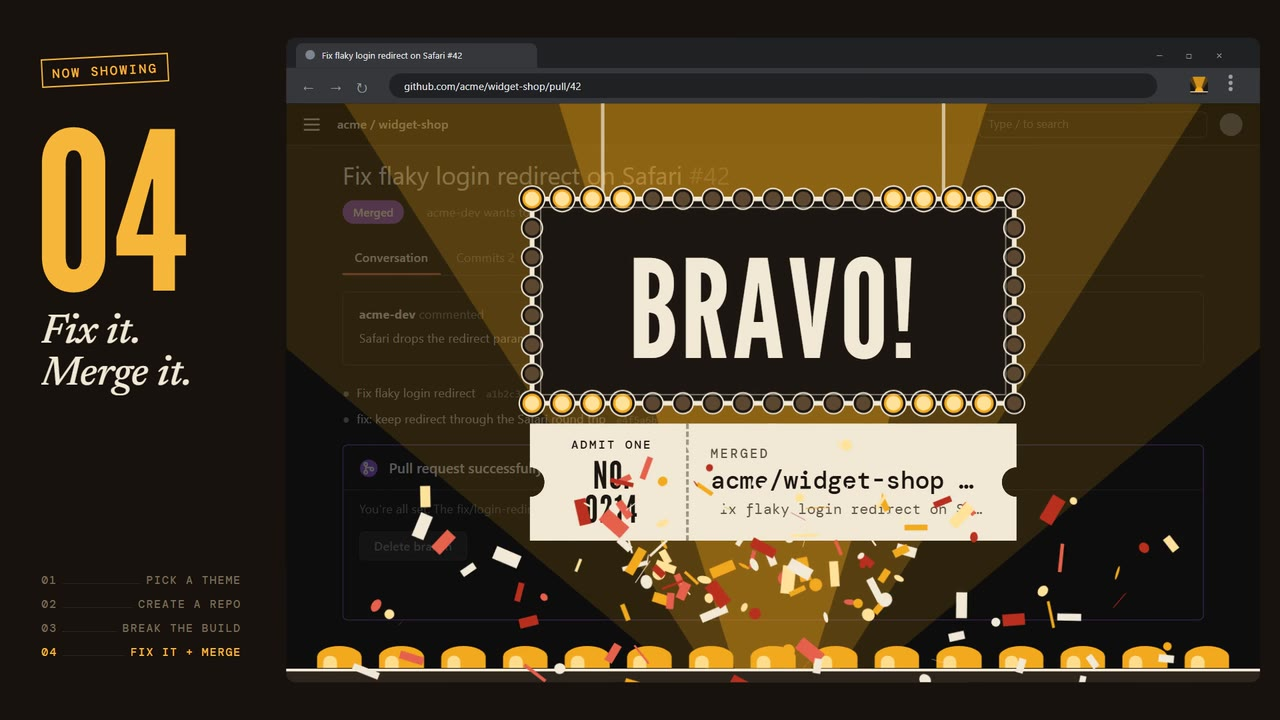
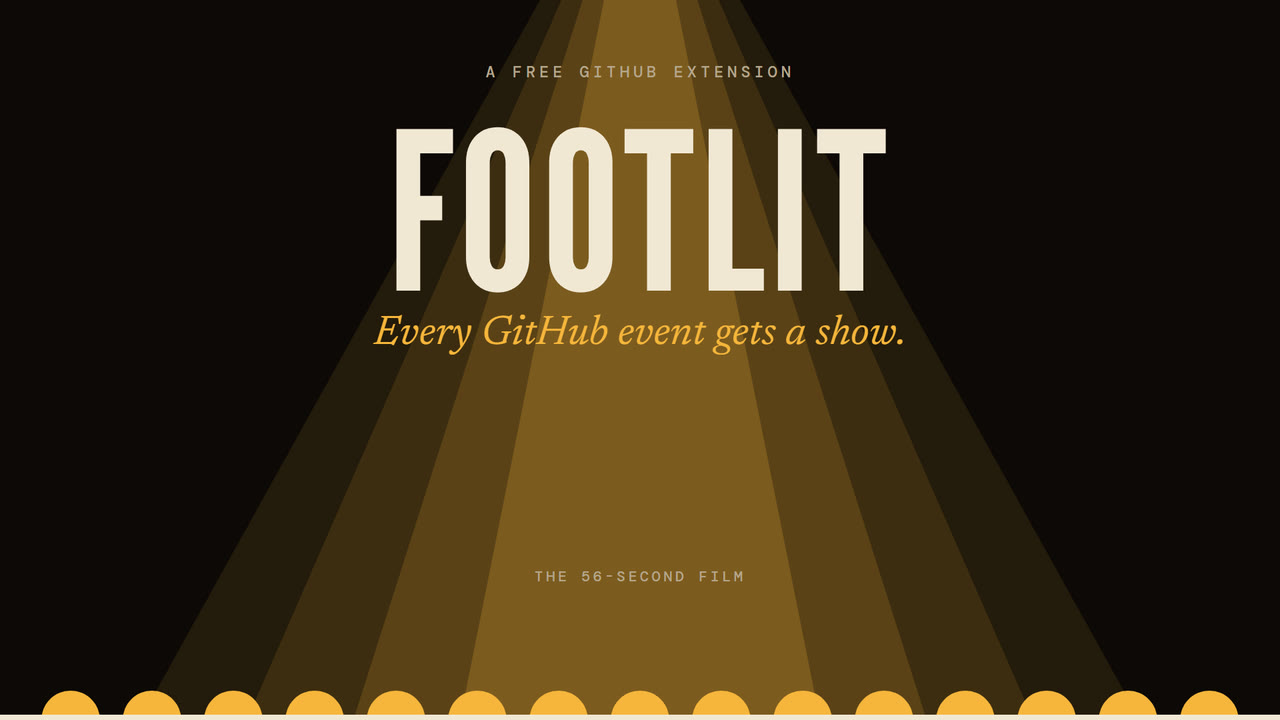
live how-it-works, themes up, restored install, new poster

diff --git a/site/src/components/Install.tsx b/site/src/components/Install.tsx
@@ -2,28 +2,78 @@ import { DOWNLOADS, VERSION } from '@/lib/data';
 import { site } from '@/site.config';
 import { TicketButton } from './TicketButton';
 import { CopyText } from './CopyText';
+import { Down } from './Icons';
 import s from './Install.module.css';
 
 export function Install() {
   const chrome = DOWNLOADS.chrome;
   return (
-    <section id="install" className={s.section} aria-labelledby="h-install">
-      <div className={`wrap ${s.grid}`}>
-        <div>
-          <h2 id="h-install" className="display">Give your next<br />merge a moment.</h2>
-          <p>Install Footlit, reload GitHub, and carry on building.<br />We’ll take care of the curtain call.</p>
-        </div>
-        <div className={s.actions}>
-          <TicketButton href={site.chromeStoreUrl || chrome?.file || '#manual-install'} download={!site.chromeStoreUrl && !!chrome} title={site.chromeStoreUrl ? 'Add to Chrome' : 'Download for Chrome'} sub="Free. No account. No sound." tone="tungsten" />
-          {site.firefoxStoreUrl && <a className={s.firefox} href={site.firefoxStoreUrl}>Add to Firefox</a>}
-          <p className={s.version}>v{VERSION} · Chrome 111+ and Firefox 140+</p>
-          {site.chromeStoreUrl && <p className={s.permission}>Chrome asks for access to github.com so Footlit can notice status changes and draw its animations.</p>}
-          <details id="manual-install" className={s.details} open={!site.chromeStoreUrl}>
-            <summary>Manual installation for Chrome</summary>
-            <div className={s.instructions}>
-              {chrome && <><h3>Chrome from a zip</h3><p><a href={chrome.file} download>Download Chrome zip ({chrome.kb} KB)</a></p><ol><li>Unzip to a folder you will keep.</li><li>Open <CopyText text="chrome://extensions" />, enable Developer mode, and choose Load unpacked.</li><li>Select the folder containing <code>manifest.json</code>, then reload GitHub.</li></ol><p>For updates, replace the folder’s files with the latest zip and reload the extension.</p></>}
-            </div>
-          </details>
+    <section id="install" className={`paper ${s.section} band`} aria-labelledby="h-install">
+      <div className="wrap">
+        <header className={s.head}>
+          <p className="eyebrow">Take a seat</p>
+          <h2 id="h-install" className={`display ${s.h2}`}>Install it in a minute.</h2>
+          <p className="lede">Free, no account, no sign-up. Version {VERSION}.</p>
+        </header>
+
+        <dl className={s.glance}>
+          <div><dt>Price</dt><dd>Free</dd></div>
+          <div><dt>Works with</dt><dd>Chrome 111+ and Chromium browsers; Firefox 140+</dd></div>
+          <div><dt>Version</dt><dd>{VERSION}</dd></div>
+          <div><dt>Download</dt><dd>{chrome ? `${chrome.kb} KB` : 'n/a'}</dd></div>
+          <div><dt>Data collected</dt><dd>None</dd></div>
+          <div><dt>Permissions</dt><dd>github.com access and storage</dd></div>
+        </dl>
+
+        <div className={s.grid}>
+          <div className={s.tickets}>
+            {site.chromeStoreUrl ? (
+              <TicketButton href={site.chromeStoreUrl} title="Add to Chrome" sub="Chrome Web Store · one click · updates itself" stub="Store" tone="tungsten" />
+            ) : (
+              <TicketButton href="#" title="Chrome Web Store" sub="Coming soon" stub="Soon" stubSmall="Not yet" tone="ink" disabled />
+            )}
+            {site.firefoxStoreUrl ? (
+              <TicketButton href={site.firefoxStoreUrl} title="Add to Firefox" sub="Firefox Add-ons · one click · updates itself" stub="Store" tone="tungsten" />
+            ) : (
+              <TicketButton href="#" title="Firefox Add-ons" sub="Coming soon" stub="Soon" stubSmall="Not yet" tone="ink" disabled />
+            )}
+            {chrome ? (
+              <TicketButton href={chrome.file} download title="Manual install" sub={`Direct download · .zip · ${chrome.kb} KB`} stub="Free" tone="ink" icon={<Down />} />
+            ) : null}
+          </div>
+
+          <div className={s.steps}>
+            <h3 className="display">Chrome, Firefox and friends</h3>
+            <ol>
+              <li>
+                <b>Press “Add to Chrome” or “Add to Firefox”</b> and confirm. The browser will say Footlit can read and change your data on github.com. That is standard wording for any extension that runs on a site: Footlit only runs on github.com, looks at page labels on your machine to know when something happened, and sends nothing anywhere.
+              </li>
+              <li>
+                <b>Reload any GitHub tab</b> you already had open, click the Footlit icon, and press Rehearse on any event.
+              </li>
+            </ol>
+            <p>Brave and other Chromium browsers can install straight from the Chrome Web Store too. Store versions update themselves.</p>
+
+            <h3 className="display">Manual install (zip)</h3>
+            <p>Only needed if you cannot use a store.</p>
+            <ol>
+              <li>
+                <b>Download and unzip</b> the file somewhere it can stay. Chrome loads the extension from that folder, so do not delete it afterwards.
+              </li>
+              <li>
+                <b>Open the extensions page</b> by pasting <CopyText text="chrome://extensions" /> into the address bar, then switch on <b>Developer mode</b>.
+              </li>
+              <li>
+                <b>Click “Load unpacked”</b> and choose the unzipped folder. The folder you pick must be the one that contains <code>manifest.json</code>.
+              </li>
+              <li>
+                <b>Reload any GitHub tab</b> you already had open, click the Footlit icon, and press Rehearse on any event.
+              </li>
+            </ol>
+            <p className={s.update}>
+              <b>Installed from a zip? Updates are not automatic.</b> Browsers only update extensions that came from a store. When a new version is released, download the latest zip here, replace the files in your folder, then press the reload button on Footlit at <CopyText text="chrome://extensions" /> and reload your GitHub tabs.
+            </p>
+          </div>
         </div>
       </div>
     </section>

diff --git a/site/src/components/Story.tsx b/site/src/components/Story.tsx
@@ -1,9 +1,73 @@
+'use client';
+
+import { useEffect, useRef, useState } from 'react';
+import { useFootlit } from '@/lib/footlit';
 import s from './Story.module.css';
 
-/** "What is this?" for people who scroll instead of watching: three beats, one picture each. */
+/**
+ * "What is this?" for people who scroll instead of watching: three beats, and the three pictures play the beats
+ * in a loop (while the section is on screen): click Merge, Footlit notices, the real engine plays the show.
+ */
 export function Story() {
+  const { ready } = useFootlit();
+  const root = useRef<HTMLElement>(null);
+  const stage = useRef<HTMLDivElement>(null);
+  const [phase, setPhase] = useState(0); // 0 idle, 1 cursor arrives, 2 clicked, 3 noticed
+  const [playing, setPlaying] = useState(false);
+  const [reduced, setReduced] = useState(false);
+
+  useEffect(() => {
+    setReduced(window.matchMedia('(prefers-reduced-motion: reduce)').matches);
+  }, []);
+
+  useEffect(() => {
+    const el = root.current;
+    if (!ready || !el) return;
+    if (reduced) {
+      setPhase(3);
+      return;
+    }
+    let alive = true;
+    let visible = false;
+    let running = false;
+    const timers: number[] = [];
+    const later = (ms: number, fn: () => void) => void timers.push(window.setTimeout(fn, ms));
+    const clear = () => timers.splice(0).forEach((t) => clearTimeout(t));
+
+    const cycle = () => {
+      if (!alive || !visible) { running = false; return; }
+      running = true;
+      setPhase(0);
+      setPlaying(false);
+      later(900, () => setPhase(1));
+      later(1700, () => setPhase(2));
+      later(2300, () => setPhase(3));
+      later(2700, async () => {
+        const host = stage.current;
+        if (!host || !window.Footlit) { later(4000, cycle); return; }
+        setPlaying(true);
+        try {
+          await window.Footlit.play({ event: 'pr.merged', theme: 'marquee', container: host, subject: 'acme/widget-shop #42', detail: 'Fix flaky login redirect on Safari' });
+        } finally {
+          if (alive) { setPlaying(false); later(1600, cycle); }
+        }
+      });
+    };
+
+    const io = new IntersectionObserver(([entry]) => {
+      visible = !!entry?.isIntersecting;
+      if (visible && !running) cycle();
+      if (!visible) { clear(); running = false; setPlaying(false); window.Footlit?.stop(); }
+    }, { threshold: 0.4 });
+    io.observe(el);
+    return () => { alive = false; io.disconnect(); clear(); window.Footlit?.stop(); };
+  }, [ready, reduced]);
+
+  const clicked = phase >= 2;
+  const noticed = phase >= 3;
+
   return (
-    <section id="how" className={`paper2 ${s.section}`} aria-labelledby="how-heading">
+    <section id="how" ref={root} className={`paper2 ${s.section}`} aria-labelledby="how-heading">
       <div className="wrap">
         <header className={s.head}>
           <p className="eyebrow">How it works</p>
@@ -15,7 +79,8 @@ export function Story() {
             <h3>You do the thing.</h3>
             <p>Merge a pull request. Publish a release. Create a repository. Nothing new to learn: you use GitHub exactly as before.</p>
             <div className={s.pic} aria-hidden="true">
-              <span className={s.merge}>Merge pull request</span>
+              <span className={`${s.merge} ${clicked ? s.merged : ''}`}>{clicked ? '✓ Merged' : 'Merge pull request'}</span>
+              <svg className={`${s.cursor} ${phase >= 1 ? s.cursorIn : ''} ${phase === 2 ? s.cursorClick : ''}`} width="26" height="32" viewBox="0 0 34 42"><path d="M3 2 L3 33 L11 26 L16.5 38.5 L22 36 L16.5 24 L27 24 Z" fill="#F1E8D4" stroke="#17120E" strokeWidth="2.5" strokeLinejoin="round" /></svg>
             </div>
           </li>
           <li>
@@ -24,16 +89,17 @@ export function Story() {
             <p>A small script on github.com reads the page labels, right in your browser. It watches for the change from “open” to “merged”, nothing else.</p>
             <div className={`${s.pic} ${s.log}`} aria-hidden="true">
               <span>pull/42</span>
-              <span><b>open</b> → <b className={s.hit}>merged</b></span>
-              <span>show: marquee</span>
+              <span>status: <b className={noticed ? s.dim : ''}>open</b>{noticed && <> → <b className={s.hit}>merged</b></>}</span>
+              <span className={`${s.line} ${noticed ? s.lineOn : ''}`}>show: marquee ▸</span>
             </div>
           </li>
           <li>
             <span className={`display ${s.num}`} aria-hidden="true">3</span>
             <h3>The show plays.</h3>
             <p>A full-screen moment in the theme you picked, then the page is yours again. Press Esc to skip it any time.</p>
-            <div className={s.pic}>
-              <img src="/mock/theme-marquee.png" width={1280} height={800} alt="The Marquee theme: a gold BRAVO sign with confetti" loading="lazy" />
+            <div className={s.pic} aria-hidden="true">
+              <img className={playing ? s.hidden : ''} src="/mock/theme-marquee.png" width={1280} height={800} alt="" loading="lazy" />
+              <div ref={stage} className={s.stage} />
             </div>
           </li>
         </ol>

diff --git a/site/src/components/Install.module.css b/site/src/components/Install.module.css
@@ -1,8 +1,32 @@
-.section { padding: 64px 0; background: #34271e; color: #fff3d6; }
-.grid { display: grid; grid-template-columns: 1fr 1fr; gap: 64px; align-items: start; }
-.grid h2 { font-size: clamp(48px, 5.5vw, 78px); }.grid > div > p { color: #d5c5ac; max-width: 42ch; margin: 22px 0 0; }
-.actions { padding-top: 4px; }.actions .version { font: 12px/1.6 var(--mono); margin-top: 16px; }.actions .permission { font-size: 15px; margin-top: 16px; }
-.firefox { display: table; margin-top: 16px; padding: 12px 20px; border: 1px solid #b6a58c; border-radius: 4px; text-decoration: none; font: 14px/1.4 var(--mono); }.firefox:hover { background: #ffffff0d; border-color: #fff3d6; }
-.details { margin-top: 24px; border-top: 1px solid #7b6751; padding-top: 18px; }.details summary { cursor: pointer; font-size: 17px; }
-.instructions { font-size: 16px; color: #e5d7c0; }.instructions h3 { font: 500 21px var(--text); margin: 24px 0 10px; }.instructions p { margin: 10px 0; }.instructions ol { padding-left: 20px; }.instructions li { margin-bottom: 10px; }.instructions code { overflow-wrap: anywhere; }.instructions a { text-underline-offset: 3px; }
-@media(max-width: 800px) { .grid { grid-template-columns: 1fr; gap: 28px; }.section { padding: 48px 0; } }
+.head { margin-bottom: clamp(36px, 5vw, 64px); }
+.h2 { font-size: clamp(58px, 7vw, 112px); margin-bottom: 18px; }
+.grid { display: grid; grid-template-columns: minmax(0, .85fr) minmax(0, 1.15fr); gap: clamp(32px, 5vw, 88px); align-items: start; }
+.tickets { display: grid; gap: 22px; justify-items: start; position: sticky; top: 100px; }
+.steps { display: grid; gap: 18px; }
+.steps h3 { font-size: clamp(36px, 3.2vw, 50px); margin-top: 8px; }
+.steps ol { margin: 0; padding: 0; list-style: none; counter-reset: step; display: grid; gap: 18px; }
+.steps ol li { counter-increment: step; position: relative; padding-left: 62px; }
+.steps ol li::before { content: counter(step); position: absolute; left: 0; top: -2px; width: 42px; height: 42px; display: grid; place-content: center; border: 2px solid var(--ink); border-radius: 50%; background: var(--lit); font: 500 15px var(--mono); }
+.steps p { margin: 0; color: var(--quiet-on-paper); }
+.steps code { font: 500 14px var(--mono); background: var(--paper-2); padding: 1px 6px; border-radius: 2px; }
+.note { padding: 16px 20px; border: 2px dashed var(--ink); }
+@media (max-width: 980px) { .grid { grid-template-columns: minmax(0, 1fr); } .tickets { position: static; width: 100%; min-width: 0; } .tickets > * { min-width: 0; max-width: 100%; } }
+
+.update { padding: 16px 20px; background: var(--ink); color: var(--paper); border-left: 0; }
+.update b { color: var(--lit); display: block; margin-bottom: 4px; }
+.update :global(button) { vertical-align: middle; }
+
+.glance { display: grid; grid-template-columns: repeat(3, minmax(0, 1fr)); gap: 0 32px; margin: 0 0 clamp(32px, 4vw, 52px); padding: 0; border-top: 3px solid var(--ink); }
+.glance div { padding: 14px 0; border-bottom: 1.5px dotted color-mix(in srgb, var(--ink) 40%, transparent); display: grid; gap: 4px; }
+.glance dt { font: 500 11px/1.3 var(--mono); letter-spacing: .12em; text-transform: uppercase; color: var(--quiet-on-paper); }
+.glance dd { margin: 0; font-weight: 500; }
+@media (max-width: 760px) { .glance { grid-template-columns: repeat(2, minmax(0, 1fr)); } }
+
+/* very narrow phones: let ticket titles wrap and long steps break instead of widening the page */
+.steps { min-width: 0; }
+.steps ol li { min-width: 0; overflow-wrap: anywhere; }
+@media (max-width: 420px) {
+  .tickets a strong { white-space: normal; font-size: 26px; }
+  .tickets a { min-width: 0; }
+}
+.steps p.update { color: var(--paper); }

diff --git a/video/src/film.ts b/video/src/film.ts
@@ -339,6 +339,21 @@ function endCard() {
 }
 
 // ---------- boot ----------
+/** A still for the website's video poster: stage light, wordmark, footlights; the middle is left clear for the play button. */
+function posterCover() {
+  const s = layer(film, `background:#0c0906;overflow:hidden`);
+  [{ w: 1500, o: 0.10 }, { w: 1180, o: 0.12 }, { w: 860, o: 0.16 }, { w: 540, o: 0.22 }].forEach((b) => {
+    mk('div', `position:absolute;left:${960 - b.w / 2}px;top:0;width:${b.w}px;height:1080px;background:${LIT};opacity:${b.o};clip-path:polygon(40% 0,60% 0,100% 100%,0 100%)`, '', s);
+  });
+  const row = mk('div', 'position:absolute;left:0;right:0;bottom:0;height:70px;display:flex;justify-content:space-between;padding:0 62px;align-items:flex-end', '', s);
+  for (let i = 0; i < 15; i++) mk('div', `width:88px;height:44px;border-radius:44px 44px 0 0;background:${LIT}`, '', row);
+  mk('div', `position:absolute;left:0;right:0;bottom:0;height:8px;background:${PAPER}`, '', s);
+  mk('div', `position:absolute;left:0;right:0;top:92px;text-align:center;font:500 24px ${MONO};letter-spacing:.24em;color:#B5A78F;text-transform:uppercase`, 'A free GitHub extension', s);
+  mk('div', `position:absolute;left:0;right:0;top:150px;text-align:center;font:400 330px/1 ${DISPLAY};letter-spacing:.02em;color:${PAPER};text-transform:uppercase`, 'Footlit', s);
+  mk('div', `position:absolute;left:0;right:0;top:470px;text-align:center;font:italic 400 62px ${TEXT};color:${LIT}`, 'Every GitHub event gets a show.', s);
+  mk('div', `position:absolute;left:0;right:0;top:850px;text-align:center;font:500 22px ${MONO};letter-spacing:.2em;color:#B5A78F;text-transform:uppercase`, 'The 56-second film', s);
+}
+
 async function boot() {
   const st = (s: string) => ((window as unknown as { __stage: string }).__stage = s);
   st('fonts');
@@ -353,6 +368,7 @@ async function boot() {
   for (const t of Footlit.themes) { void Footlit.play({ theme: t.id, event: 'pr.merged', container: warm }); await new Promise((r) => setTimeout(r, 450)); Footlit.stop(); }
   warm.remove();
 
+  if (q.get('cover') === 'poster') { posterCover(); w.__ready = true; return; }
   if (q.get('lab')) { w.__ready = true; return; }
   const only = q.get('only');
   st('scenes'); hook(); montage(); logo(); st('demo'); await demo(); st('rest'); trust(); endCard();

diff --git a/site/src/components/Story.module.css b/site/src/components/Story.module.css
@@ -6,11 +6,21 @@
 .num { font-size: clamp(84px, 8vw, 120px); color: var(--lit); line-height: .8; -webkit-text-stroke: 2px var(--ink); margin-bottom: 14px; }
 .steps h3 { font: 500 clamp(24px, 2vw, 30px)/1.15 var(--text); margin: 0 0 10px; }
 .steps p { color: var(--quiet-on-paper); margin: 0 0 22px; max-width: 34ch; font-size: clamp(16px, 1.15vw, 18.5px); }
-.pic { margin-top: auto; height: 150px; border: 2px solid var(--ink); background: var(--ink); color: var(--paper); display: grid; place-items: center; overflow: hidden; }
+.pic { position: relative; margin-top: auto; height: 170px; border: 2px solid var(--ink); background: var(--ink); color: var(--paper); display: grid; place-items: center; overflow: hidden; }
 .pic img { width: 100%; height: 100%; object-fit: cover; }
-.merge { background: #2f8a3a; color: #fff; font: 600 15px/1 system-ui, 'Segoe UI', sans-serif; padding: 11px 18px; border-radius: 6px; }
+.merge { background: #2f8a3a; color: #fff; font: 600 15px/1 system-ui, 'Segoe UI', sans-serif; padding: 11px 18px; border-radius: 6px; transition: background .25s, transform .15s; }
+.merged { background: #8957e5; }
+.cursor { position: absolute; left: 78%; top: 112%; transition: left .8s var(--ease), top .8s var(--ease), transform .15s; pointer-events: none; }
+.cursorIn { left: 58%; top: 58%; }
+.cursorClick { transform: scale(.82); }
 .log { place-items: start; align-content: center; padding: 0 22px; gap: 8px; font: 500 14px/1.3 var(--mono); letter-spacing: .04em; color: var(--quiet-on-ink); }
 .log span { display: block; }
+.dim { color: var(--quiet-on-ink) !important; text-decoration: line-through; }
+.line { opacity: 0; transform: translateX(-6px); transition: opacity .3s, transform .3s; color: var(--lit); }
+.lineOn { opacity: 1; transform: none; }
 .log b { font-weight: 500; color: var(--paper); }
 .log .hit { color: var(--lit); }
 @media (max-width: 860px) { .steps { grid-template-columns: 1fr; gap: 36px; } .pic { height: 170px; } .steps p { max-width: 48ch; } }
+.stage { position: absolute; inset: 0; }
+.hidden { opacity: 0; }
+.pic img { transition: opacity .2s; }

diff --git a/site/src/components/VideoDemo.tsx b/site/src/components/VideoDemo.tsx
@@ -31,7 +31,7 @@ export function VideoDemo() {
             </video>
           ) : (
             <button className={s.poster} onClick={() => setStarted(true)} aria-label="Play the 56-second Footlit film">
-              <img src="/demo/poster-launch.jpg" width={1280} height={720} alt="Footlit's gold BRAVO marquee celebrating a merged pull request over a GitHub page" loading="lazy" />
+              <img src="/demo/poster-launch.jpg" width={1280} height={720} alt="Footlit: every GitHub event gets a show. Play the 56-second film." loading="lazy" />
               <span className={s.play}><span aria-hidden="true">▶</span> Watch the film <small>56 s · sound on</small></span>
             </button>
           )}

diff --git a/site/src/components/Nav.tsx b/site/src/components/Nav.tsx
@@ -7,8 +7,8 @@ import s from './Nav.module.css';
 const LINKS = [
   ['Watch', '/#watch'],
   ['How it works', '/#how'],
-  ['Events', '/#events'],
   ['Themes', '/#themes'],
+  ['Events', '/#events'],
   ['Privacy', '/privacy/'],
 ] as const;
 

diff --git a/site/src/app/page.tsx b/site/src/app/page.tsx
@@ -67,8 +67,8 @@ export default function Home() {
       <Hero />
       <VideoDemo />
       <Story />
-      <Moments />
       <Showcase />
+      <Moments />
       <Trust />
       <Install />
       <Faq />
